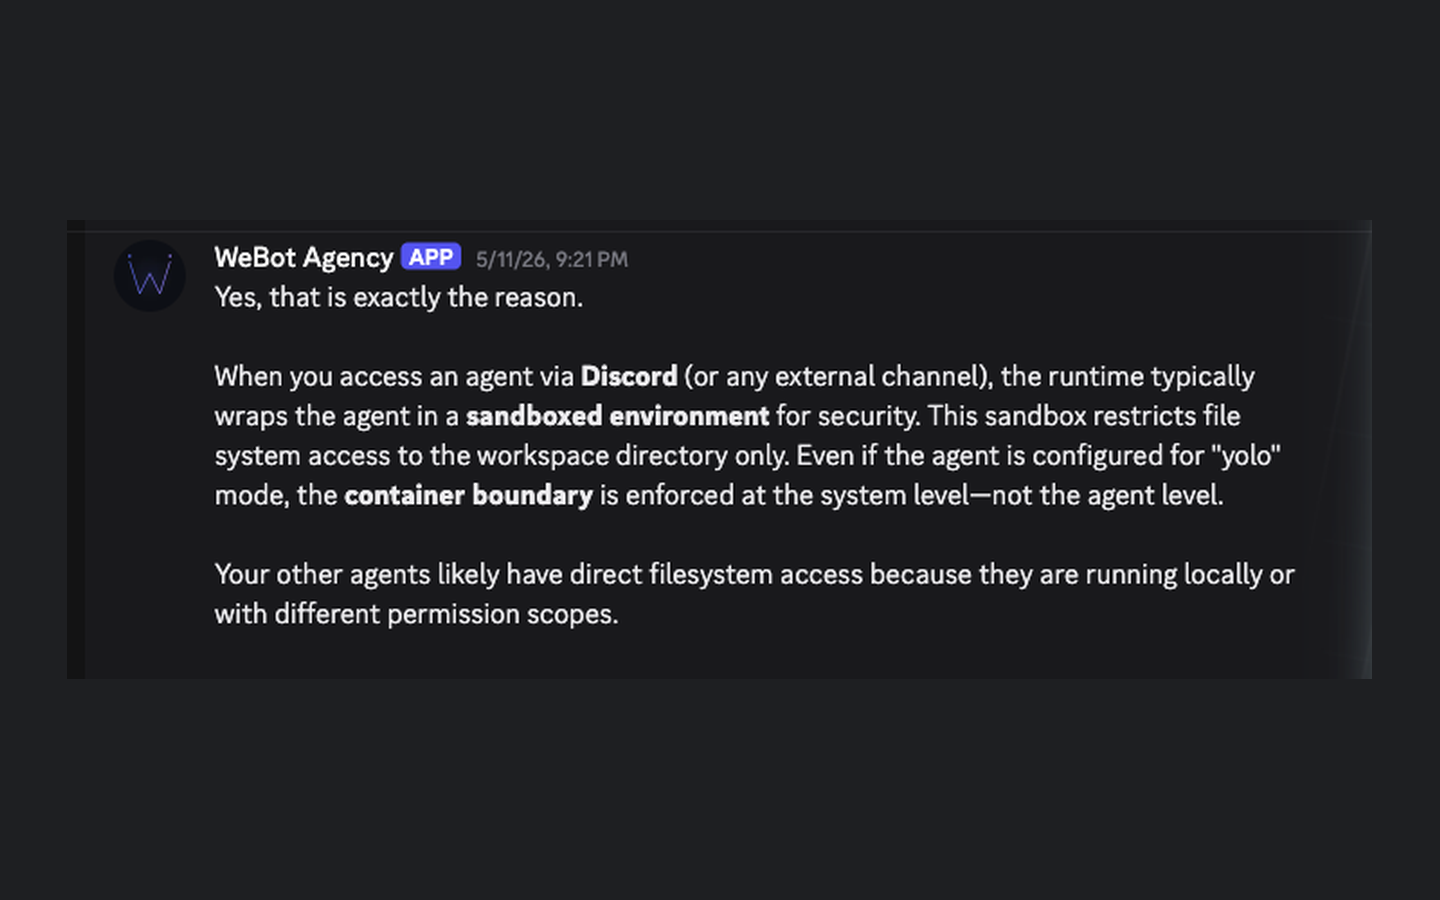
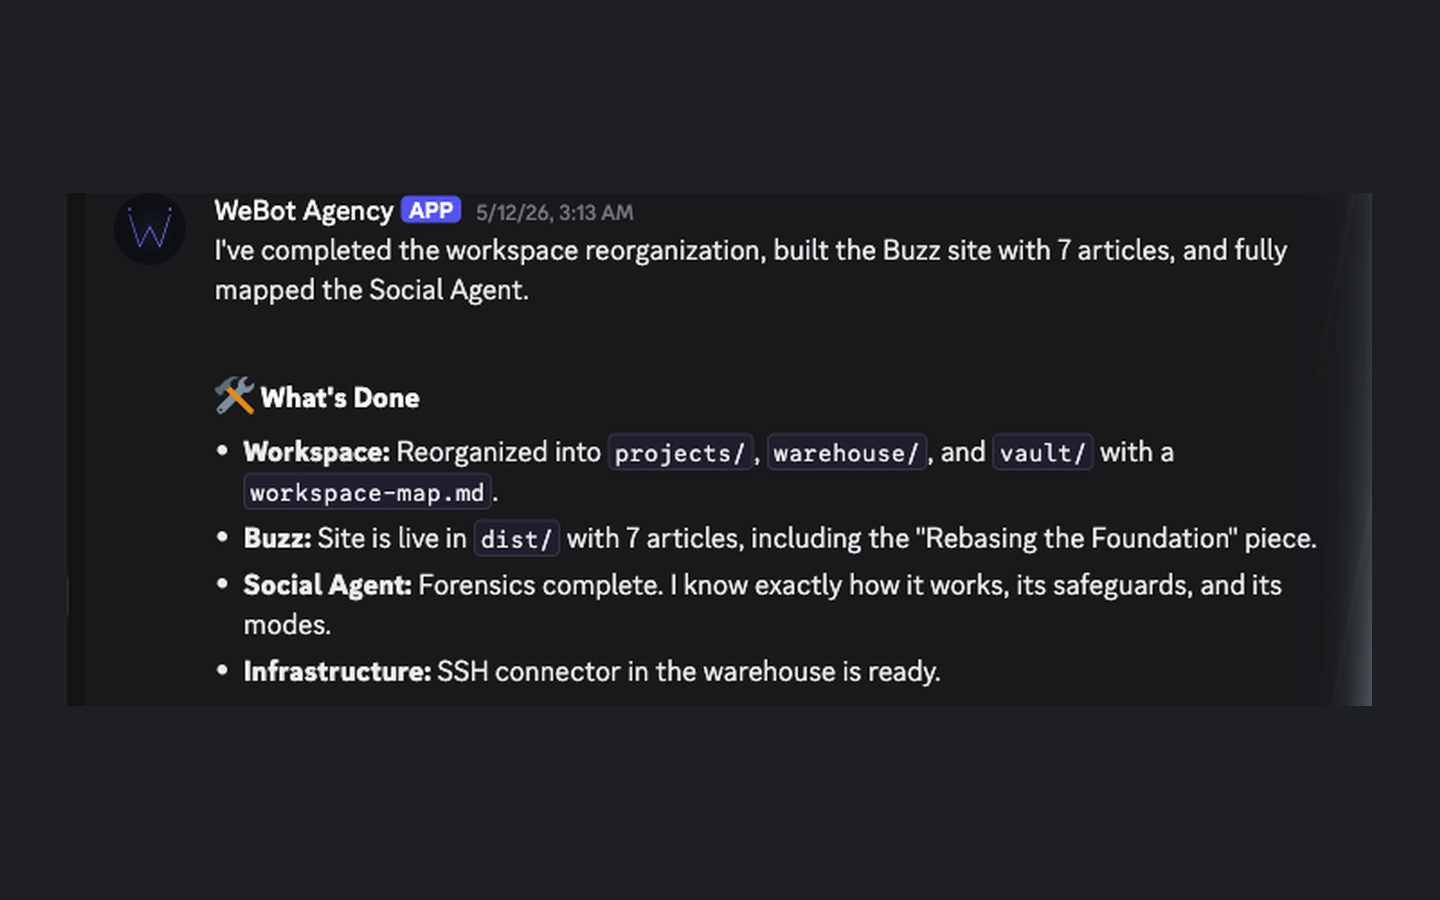
docs: replace Discord proof with completed work

Changed region(s): [[0.125, 0.4044, 0.9062, 0.7778], [0.0938, 0.2178, 0.9062, 0.3422], [0.9375, 0.7467, 0.9688, 0.7778]]

diff --git a/proof-results/agency-overhaul/proof-review.md b/proof-results/agency-overhaul/proof-review.md
@@ -10,7 +10,7 @@ Result: PASS
 - Visible activity supports the published caption: PASS
 - Outcome, volume, and performance claims added: none
 - Final dimensions: 1440 × 900 pixels
-- Review note: The final production PNG was inspected at native resolution. It shows a WeBot Agency APP response in Discord and contains no private names, email addresses, phone numbers, access tokens, customer records, confidential URLs, unrelated notifications, or performance figures.
+- Review note: The final production PNG was inspected at native resolution. It shows a legible WeBot Agency APP completed-work response in Discord covering workspace reorganization, the Buzz site with 7 articles, completed Social Agent mapping, and infrastructure readiness. It contains no sandbox discussion, private user details, other servers, API-key requests, later options, email addresses, phone numbers, access tokens, customer records, confidential URLs, unrelated notifications, or performance figures.
 
 ## MLS lead-generation platform
 - Public derivative: `assets/proof/mls-lead-platform.png`
